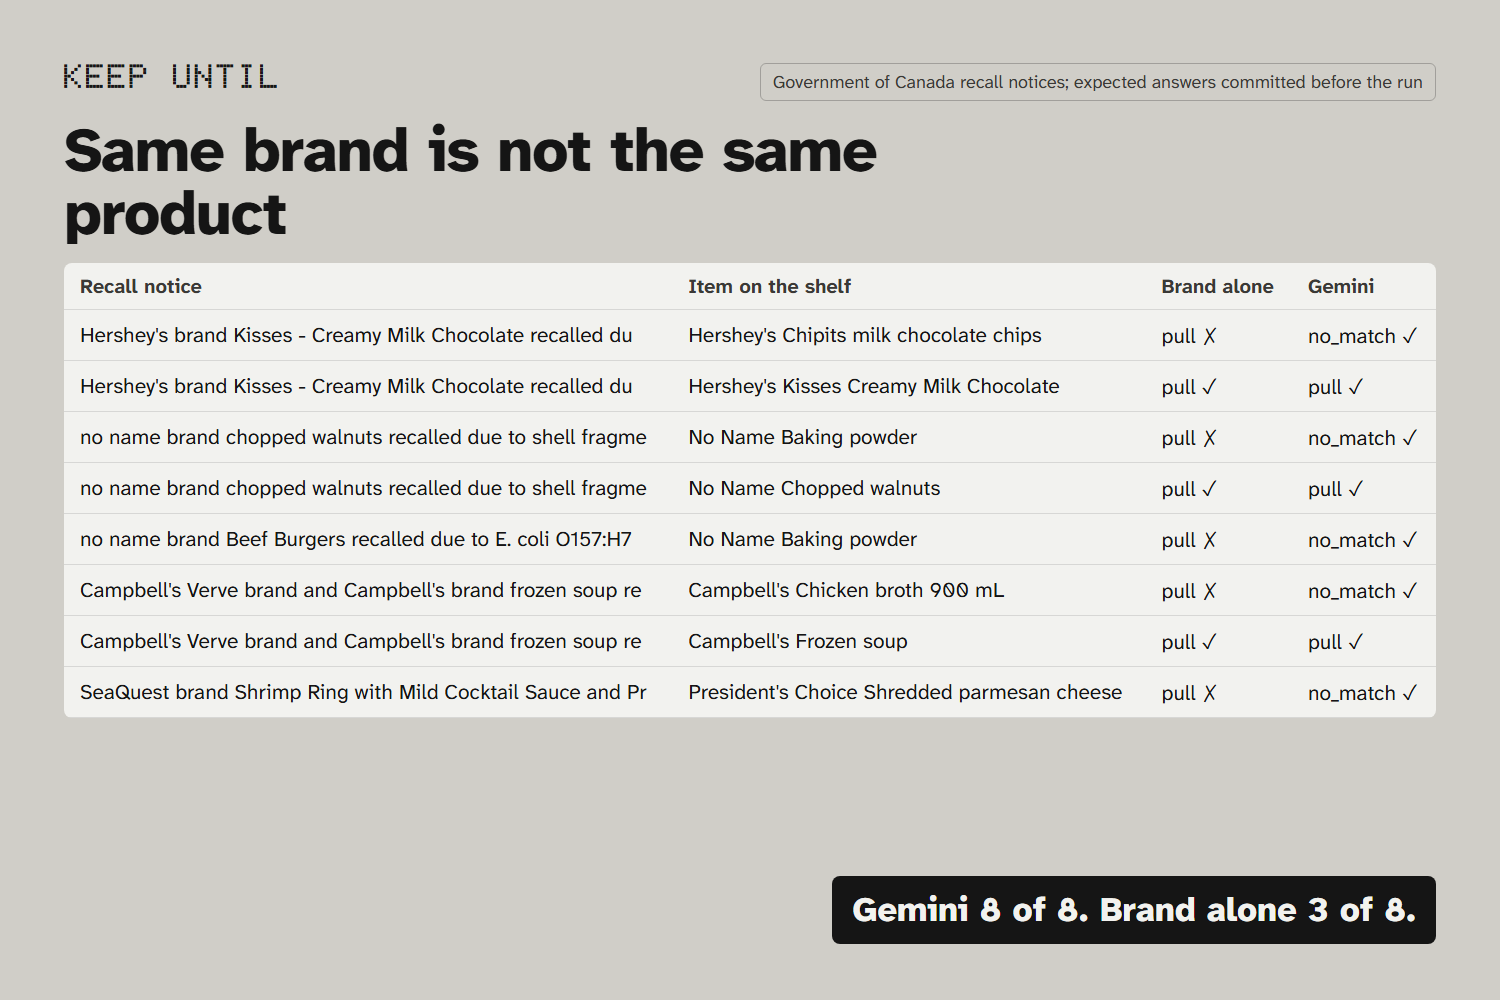
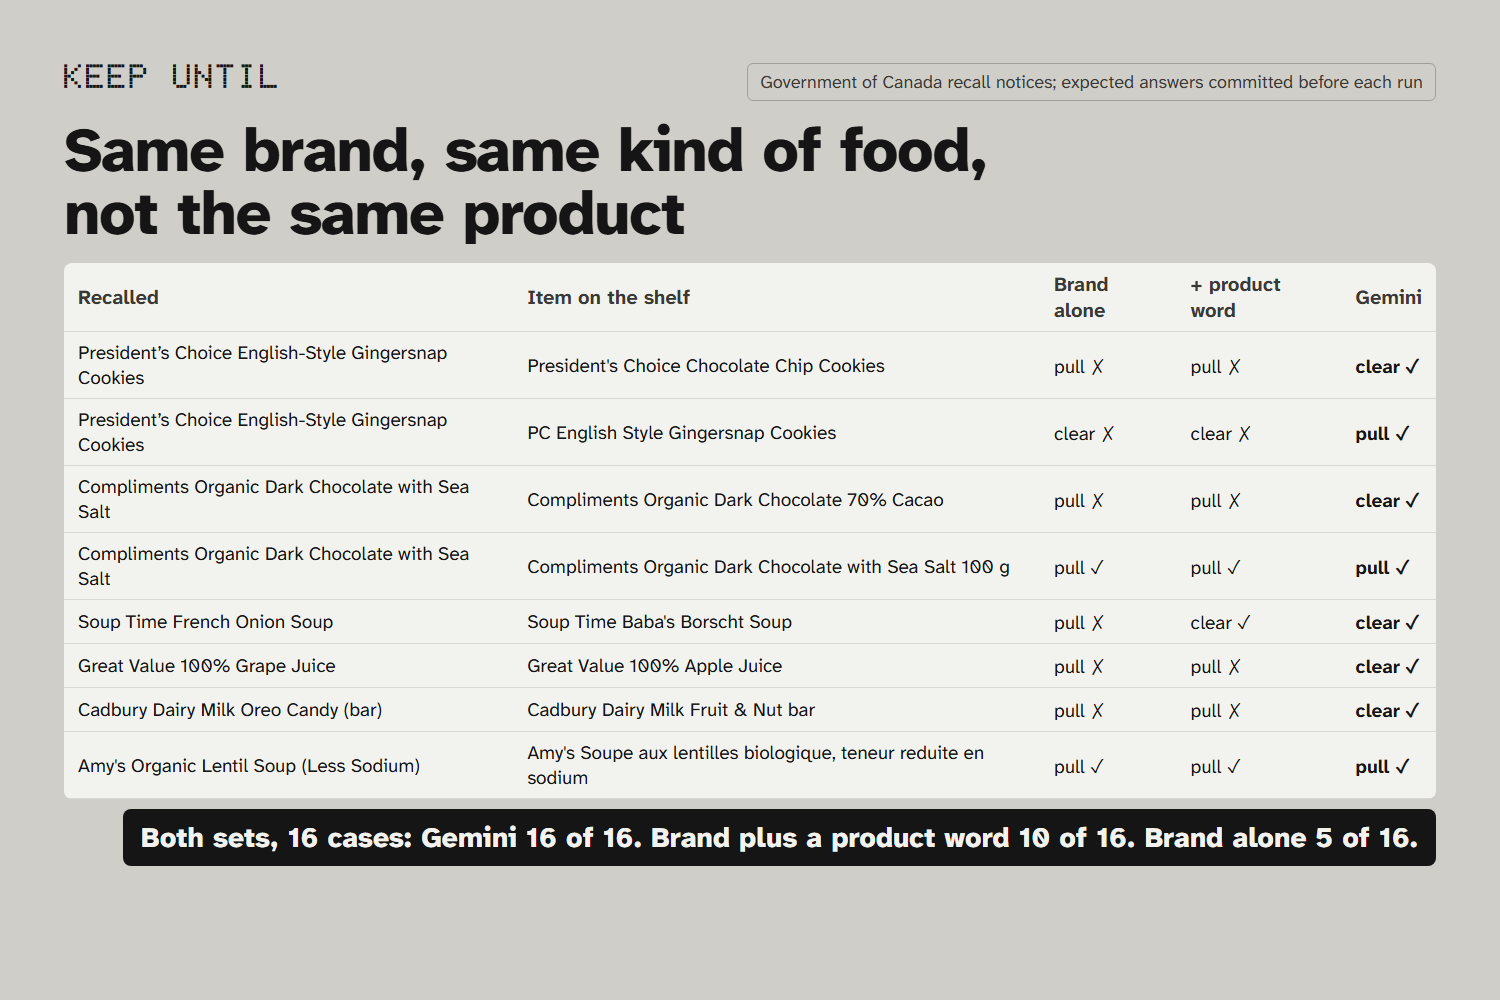
Recall check measured against a fairer rule: on two pre-registered sets (16 real notice and item pairs) Gemini 16 of 16, brand plus a product word 10 of 16, brand alone 5 of 16; the short-brand gap in the daily proposal is stated; recall slide shows the harder set

diff --git a/web/src/main.ts b/web/src/main.ts
@@ -7,7 +7,11 @@ import { logItem, startShift } from "./store";
 import { appendRow, connectSheet, pendingRows, sheetUrl } from "./sheet";
 import { renderAnswer, renderRow, renderTally } from "./view";
 import { checkRecallsAtShiftStart, makeRecallModel, settle, type Found, type Notice } from "./recall";
-import recallControl from "../../shared/recall-control.json";
+import recallControl1 from "../../shared/recall-control.json";
+import recallControl2 from "../../shared/recall-control-2.json";
+
+// Both pre-registered sets, run together: the first (2026-11-19) and the harder second (2026-11-22).
+const recallSets = [recallControl1, recallControl2];
 
 const $ = <T extends HTMLElement>(id: string) => document.getElementById(id) as T;
 const status = $("status");
@@ -263,16 +267,17 @@ recallControlBtn.addEventListener("click", async () => {
   recallControlBtn.disabled = true;
   const model = makeRecallModel(settings.cloudModel);
   const runs: unknown[] = [];
-  for (const [i, c] of recallControl.cases.entries()) {
-    toolStatus.textContent = `Recall control set: case ${i + 1} of ${recallControl.cases.length}`;
+  const cases = recallSets.flatMap((set) => set.cases.map((c) => ({ ...c, registered: set.registered })));
+  for (const [i, c] of cases.entries()) {
+    toolStatus.textContent = `Recall control sets: case ${i + 1} of ${cases.length}`;
     try {
       const s = await settle(model, c.recall as Notice, c.item);
-      runs.push({ id: c.id, expected: c.expected, rule: "pull", model: s.decision, why: s.why, source: s.source, ms: s.ms });
+      runs.push({ id: c.id, registered: c.registered, expected: c.expected, model: s.decision, why: s.why, source: s.source, ms: s.ms });
     } catch (e) {
-      runs.push({ id: c.id, expected: c.expected, rule: "pull", error: (e as Error).message });
+      runs.push({ id: c.id, registered: c.registered, expected: c.expected, error: (e as Error).message });
     }
   }
-  const blob = new Blob([JSON.stringify({ exported: new Date().toISOString(), cloudModel: settings.cloudModel, registered: recallControl.registered, runs }, null, 2)], { type: "application/json" });
+  const blob = new Blob([JSON.stringify({ exported: new Date().toISOString(), cloudModel: settings.cloudModel, sets: recallSets.map((x) => x.registered), runs }, null, 2)], { type: "application/json" });
   const a = document.createElement("a");
   a.href = URL.createObjectURL(blob);
   a.download = "keep-until-recall-control.json";

diff --git a/functions/match.js b/functions/match.js
@@ -49,6 +49,34 @@ export function candidatesFor(recall, items) {
   return out;
 }
 
+const NOT_PRODUCT_WORDS = new Set(["with", "from", "size", "pack", "organic", "style", "brand", "recalled", "certain", "various"]);
+
+/** Product words of four or more letters, singular, without the brand's own words. */
+function productWords(text, brand) {
+  const skip = new Set(norm(brand).trim().split(" "));
+  return new Set(
+    norm(text)
+      .trim()
+      .split(" ")
+      .map((w) => w.replace(/(es|s)$/, ""))
+      .filter((w) => w.length >= 4 && !NOT_PRODUCT_WORDS.has(w) && !skip.has(w)),
+  );
+}
+
+/**
+ * The fairer baseline the model is measured against (2026-11-22): pull only when the brand is in
+ * the notice and the kept item's product shares at least one product word with the recalled
+ * product. It never runs in the product; it exists so the model is compared with a rule a
+ * careful programmer would write, and not only with brand matching.
+ */
+export function keywordRule(recall, item) {
+  if (!candidatesFor(recall, [{ id: "x", brand: item.brand, product: item.product }]).length) return "no_match";
+  const recalled = `${recall.Product ?? ""} ${String(recall.Title ?? "").split(/ recalled /i)[0]}`;
+  const mine = productWords(item.product, item.brand);
+  for (const w of productWords(recalled, item.brand)) if (mine.has(w)) return "pull";
+  return "no_match";
+}
+
 /** Food recalls updated on or after `since` (YYYY-MM-DD), newest first. */
 export function recentFoodRecalls(feed, since) {
   return feed

diff --git a/functions/match.test.js b/functions/match.test.js
@@ -50,3 +50,17 @@ test("keeps only food recalls inside the window, newest first", () => {
   const feed = [kisses, walnuts, { ...kisses, NID: "old", "Last updated": "2024-01-01" }, { ...kisses, NID: "car", Organization: "TC" }];
   assert.deepEqual(recentFoodRecalls(feed, "2025-11-19").map((r) => r.NID), ["real-noname", "real-hershey"]);
 });
+
+// The baseline rule the model is measured against: brand in the notice and a shared product word.
+import { keywordRule } from "./match.js";
+
+test("keyword rule pulls a same-brand item only when a product word is shared", () => {
+  assert.equal(keywordRule(walnuts, { brand: "No Name", product: "Chopped walnuts" }), "pull");
+  assert.equal(keywordRule(walnuts, { brand: "No Name", product: "Baking powder" }), "no_match");
+});
+
+test("keyword rule never matches on the brand's own words or on another brand", () => {
+  const soup = { Title: "Soup Time brand French Onion Soup recalled due to undeclared wheat", Product: "French Onion Soup" };
+  assert.equal(keywordRule(soup, { brand: "Soup Time", product: "Baba's Borscht Soup" }), "no_match");
+  assert.equal(keywordRule(soup, { brand: "Campbell's", product: "French Onion Soup" }), "no_match");
+});

diff --git a/scripts/gallery/render.py b/scripts/gallery/render.py
@@ -30,11 +30,16 @@ def ablation():
     }
 
 
+def w(d):
+    return {"no_match": "clear", "check_lot": "check lot"}.get(d, d)
+
+
 def recall():
-    t = read("results/recall-control-2026-11-19.md")
-    m = re.search(r"Model: (\d+) of (\d+)\. Brand rule alone: (\d+) of (\d+)", t)
-    rows = re.findall(r"^\| c\d \| ([^|]+) \| ([^|]+) \| (\w+) \| pull (.) \| (\w+) (.) \|", t, re.M)
-    return {"model": f"{m[1]} of {m[2]}", "rule": f"{m[3]} of {m[4]}", "false_pulls": int(m[2]) - int(m[3]), "rows": rows}
+    t = read("results/recall-control-2026-11-22.md")
+    m = re.search(r"Model: (\d+ of \d+)\. Brand plus a product word: (\d+ of \d+)\. Brand alone: (\d+ of \d+)", t)
+    second = t[t.index("## Second set"):t.index("## Both sets")]
+    rows = re.findall(r"^\| (d\d) \| ([^|]+) \| ([^|]+) \| (\w+) \| (\w+) (.) \| (\w+) (.) \| (\w+) (.) \|", second, re.M)
+    return {"model": m[1], "keyword": m[2], "rule": m[3], "rows": rows}
 
 
 def quote():
@@ -149,15 +154,15 @@ SLIDES = [
     },
     {
         "name": "recall",
-        "headline": "Same brand is not the same product",
-        "badge": "Government of Canada recall notices; expected answers committed before the run",
-        "body": "<table class=\"small\"><tr><th>Recall notice</th><th>Item on the shelf</th><th>Brand alone</th><th>Gemini</th></tr>"
+        "headline": "Same brand, same kind of food, not the same product",
+        "badge": "Government of Canada recall notices; expected answers committed before each run",
+        "body": "<div class=\"stack\" style=\"width:100%\"><table class=\"tiny\"><tr><th>Recalled</th><th>Item on the shelf</th><th>Brand alone</th><th>+ product word</th><th>Gemini</th></tr>"
         + "".join(
-            f"<tr><td>{html.escape(n.strip()[:58])}</td><td>{html.escape(i.strip())}</td><td>{'pull ' + ok_rule}</td><td>{dec} {ok_m}</td></tr>"
-            for n, i, exp, ok_rule, dec, ok_m in R["rows"]
+            f"<tr><td>{html.escape(n.split(' recalled')[0].replace(' brand', '').strip())}</td><td>{html.escape(i.strip())}</td><td>{w(rb)} {okb}</td><td>{w(rk)} {okk}</td><td><b>{w(dm)} {okm}</b></td></tr>"
+            for _, n, i, exp, rb, okb, rk, okk, dm, okm in R["rows"]
         )
-        + f"</table><p class=\"big\">Gemini {R['model']}. Brand alone {R['rule']}.</p>",
-        "caption": f"Each morning a Firebase function checks food recalls against stock. Gemini clears same-brand items: {R['model']}, brand alone {R['rule']}.",
+        + f"</table><p class=\"bigline\">Both sets, 16 cases: Gemini {R['model']}. Brand plus a product word {R['keyword']}. Brand alone {R['rule']}.</p></div>",
+        "caption": f"Recalls are checked against stock every morning. Gemini {R['model']}; brand plus a product word {R['keyword']}; brand alone {R['rule']}.",
     },
     {
         "name": "phone",
@@ -256,6 +261,8 @@ code {{ font-family: D; font-weight: 800; letter-spacing: .03em; }}
 .axis {{ display: flex; justify-content: space-between; font-size: 18px; color: #3a3936; margin-top: 4px; }}
 .keys {{ font-size: 22px; margin: 14px 0 0; }} .key {{ margin-right: 22px; }} .key i {{ display: inline-block; width: 14px; height: 14px; border-radius: 50%; margin-right: 6px; }}
 .keynote {{ color: #3a3936; }}
+.tiny {{ font-size: 19px; }} table.tiny td, table.tiny th {{ padding: 8px 14px; }}
+.bigline {{ margin: 0; align-self: flex-end; font-size: 28px; font-weight: 800; background: #151515; color: #f2f2ef; padding: 10px 18px; border-radius: 8px; }}
 .term {{ margin: 0; background: #151515; color: #f2f2ef; font-family: D; font-size: 26px; line-height: 1.5; padding: 28px 32px; border-radius: 8px; white-space: pre-wrap; max-width: 820px; }}
 """
 

diff --git a/scripts/check_claims.py b/scripts/check_claims.py
@@ -25,8 +25,8 @@ def ablation():
 
 
 def recall():
-    m = re.search(r"Model: (\d+ of \d+)\. Brand rule alone: (\d+ of \d+)", read("results/recall-control-2026-11-19.md"))
-    return {"model": m[1], "rule": m[2]}
+    m = re.search(r"Model: (\d+ of \d+)\. Brand plus a product word: (\d+ of \d+)\. Brand alone: (\d+ of \d+)", read("results/recall-control-2026-11-22.md"))
+    return {"model": m[1], "keyword": m[2], "rule": m[3]}
 
 
 def handsfree():
@@ -40,6 +40,7 @@ A, R, H = ablation(), recall(), handsfree()
 CLAIMS = [
     (r"Gemini (\d+ of \d+)", R["model"], "recall control, model"),
     (r"[Bb]rand alone:? (\d+ of \d+)", R["rule"], "recall control, brand rule"),
+    (r"product word:? (\d+ of \d+)", R["keyword"], "recall control, brand plus product word rule"),
     (r"(\d+ of \d+) handled right, \d+ cloud calls", A["hybrid"], "hybrid score"),
     (r"\d+ of \d+ handled right, (\d+) cloud calls", A["hybrid_calls"], "hybrid cloud calls"),
     (r"Cloud only \| (\d+ of \d+)", A["cloud"], "cloud-only score"),

diff --git a/results/recall-control-2026-11-22.md b/results/recall-control-2026-11-22.md
@@ -1,0 +1,47 @@
+# Recall control sets, 2026-11-22: the model against two rules
+
+Run: `results/recall-control-2026-11-22.json`, cloud model gemini-3.5-flash-lite, through Firebase AI Logic (PREFER_IN_CLOUD), from the app's recall control runner on localhost.
+Rules: `scripts/recall_baselines.mjs`, using the product's own matcher (`functions/match.js`).
+
+Two rules stand in for the model. **Brand alone** is what the daily function proposes. **Brand plus a product word** pulls only when the brand is in the notice and the kept item shares a product word (four letters or more, singular) with the recalled product: the rule a careful programmer would write without a model.
+
+## First set, registered 2026-11-19
+
+| case | recall notice | kept item | expected | brand alone | brand + product word | Gemini | Gemini's reason |
+|---|---|---|---|---|---|---|---|
+| c1 | Hershey's brand Kisses - Creamy Milk Chocolate recalled due to undeclared almond | Hershey's Chipits milk chocolate chips | no_match | pull ✗ | pull ✗ | no_match ✓ | The notice recalls Kisses - Creamy Milk Chocolate, but the kept item is Chipits milk chocolate chips. |
+| c2 | Hershey's brand Kisses - Creamy Milk Chocolate recalled due to undeclared almond | Hershey's Kisses Creamy Milk Chocolate | recalled | pull ✓ | pull ✓ | pull ✓ | The recall notice explicitly lists the exact brand and product name of the kept item. |
+| c3 | no name brand chopped walnuts recalled due to shell fragments | No Name Baking powder | no_match | pull ✗ | no_match ✓ | no_match ✓ | The recall is for chopped walnuts while the kept item is baking powder. |
+| c4 | no name brand chopped walnuts recalled due to shell fragments | No Name Chopped walnuts | recalled | pull ✓ | pull ✓ | pull ✓ | The recall notice explicitly names the brand and product as recalled due to shell fragments. |
+| c5 | no name brand Beef Burgers recalled due to E. coli O157:H7 | No Name Baking powder | no_match | pull ✗ | no_match ✓ | no_match ✓ | The recall notice is for Beef Burgers while the kept item is Baking powder. |
+| c6 | Campbell's Verve brand and Campbell's brand frozen soup recalled due to pieces of wood | Campbell's Chicken broth 900 mL | no_match | pull ✗ | no_match ✓ | no_match ✓ | The recall notice specifies frozen soup, whereas the kept item is chicken broth. |
+| c7 | Campbell's Verve brand and Campbell's brand frozen soup recalled due to pieces of wood | Campbell's Frozen soup | recalled | pull ✓ | pull ✓ | pull ✓ | The recall notice explicitly names Campbell's brand frozen soup, which matches the kept item. |
+| c8 | SeaQuest brand Shrimp Ring with Mild Cocktail Sauce and President's Choice brand Black Tig | President's Choice Shredded parmesan cheese | no_match | pull ✗ | no_match ✓ | no_match ✓ | The notice recalls shrimp products, but the kept item is shredded parmesan cheese. |
+
+Gemini 8 of 8. Brand plus a product word 7 of 8. Brand alone 3 of 8.
+
+## Second set, registered 2026-11-22 (commit 02cd1d2), harder: same brand and mostly the same kind of food
+
+| case | recall notice | kept item | expected | brand alone | brand + product word | Gemini | Gemini's reason |
+|---|---|---|---|---|---|---|---|
+| d1 | President’s Choice brand English-Style Gingersnap Cookies recalled due to metal wire | President's Choice Chocolate Chip Cookies | no_match | pull ✗ | pull ✗ | no_match ✓ | The recall notice is for English-Style Gingersnap Cookies while the kept item is Chocolate Chip Cookies. |
+| d2 | President’s Choice brand English-Style Gingersnap Cookies recalled due to metal wire | PC English Style Gingersnap Cookies | recalled | no_match ✗ | no_match ✗ | pull ✓ | The recall notice explicitly names the President’s Choice brand English-Style Gingersnap Cookies. |
+| d3 | Compliments Organic brand Dark Chocolate with Sea Salt recalled due to undeclared almond | Compliments Organic Dark Chocolate 70% Cacao | no_match | pull ✗ | pull ✗ | no_match ✓ | The notice recalls Dark Chocolate with Sea Salt while the kept item is Dark Chocolate 70% Cacao. |
+| d4 | Compliments Organic brand Dark Chocolate with Sea Salt recalled due to undeclared almond | Compliments Organic Dark Chocolate with Sea Salt 100 g | recalled | pull ✓ | pull ✓ | pull ✓ | The recall notice states the exact same brand and product as the kept item. |
+| d5 | Soup Time brand French Onion Soup recalled due to undeclared wheat | Soup Time Baba's Borscht Soup | no_match | pull ✗ | no_match ✓ | no_match ✓ | The notice recalls French Onion Soup, but the kept item is Baba's Borscht Soup. |
+| d6 | Great Value brand 100% Grape Juice recalled due to tartrate crystals | Great Value 100% Apple Juice | no_match | pull ✗ | pull ✗ | no_match ✓ | The recall notice is for Grape Juice while the kept item is Apple Juice. |
+| d7 | Cadbury brand Dairy Milk Oreo Candy (bar) recalled due to undeclared pistachio | Cadbury Dairy Milk Fruit & Nut bar | no_match | pull ✗ | pull ✗ | no_match ✓ | The notice recalls the Dairy Milk Oreo Candy bar, while the kept item is a Dairy Milk Fruit & Nut bar. |
+| d8 | Amy's brand Organic Lentil Soup (Less Sodium) recalled due to container integrity defects  | Amy's Soupe aux lentilles biologique, teneur reduite en sodium | recalled | pull ✓ | pull ✓ | pull ✓ | The notice recalls the Amy's brand Organic Lentil Soup (Less Sodium), which matches the kept item. |
+
+Gemini 8 of 8. Brand plus a product word 3 of 8. Brand alone 2 of 8.
+
+## Both sets
+
+**Model: 16 of 16. Brand plus a product word: 10 of 16. Brand alone: 5 of 16.**
+
+## Limits
+
+- d2's brand is printed as "PC". The daily function's brand match needs three letters, so in the product this item is never proposed and the model never sees it. The model settles it here only because the control set hands it the pair. A short or abbreviated brand is a gap in the proposal step, not in the model.
+- The second set was chosen to be the hard part of recall matching (variants of the same product, an abbreviation, a French label), so it favours a reader of meaning over a word rule by design. Its expected answers were committed before either the rules or the model ran on it.
+- 16 cases, all decided from text. A recall limited to certain lot codes (check_lot) is not in either set yet.
+- The first set's model answers here are a second run; they match the 2026-11-19 run case for case (`results/recall-control-2026-11-19.md`).

diff --git a/devpost/submission.md b/devpost/submission.md
@@ -86,7 +86,7 @@ This set mostly tests routing. Nine of the 15 scored photos should get "turn it"
 
 Why a discard needs two reads: in one run the cloud model read the Chipits bag as `26MA14`, a date already past, and the app said discard. The bag says May 2027. In the next run the same photo read `2027 MA 17` (`results/pantry-2026-11-15-cloud-repeatability.md`). Since then a discard needs a second, independent read that finds the same date, and when the two disagree the item goes to the sort lead.
 
-The recall check, on 8 real Government of Canada notices with the expected answers committed before the run: Gemini 8 of 8, brand alone 3 of 8. Brand matching alone would have pulled five items that were never recalled, among them Hershey's Chipits against the August 2026 Hershey's Kisses almond recall.
+The recall check, on 16 pairs of a real Government of Canada recall notice and a same-brand item, in two sets whose expected answers were committed before each run: Gemini 16 of 16, brand plus a product word 10 of 16, brand alone 5 of 16. The second set is the hard part on purpose: Gemini cleared President's Choice chocolate chip cookies against a recall of its gingersnaps, and Great Value apple juice against a recall of its grape juice, and matched Amy's lentil soup read from the French side of the label. One gap is mine, not the model's: the daily function proposes candidates by brand, and a brand printed as "PC" is too short for it, so that item would never reach the model in real use.
 
 A script fails the build if any number on this page or in the README stops matching its results file.
 

diff --git a/README.md b/README.md
@@ -70,7 +70,7 @@ the 16 pantry photos three ways and downloads one file; grade it with
 | Hybrid: Nano checks every photo on the laptop, the cloud reads dates | 13 of 15 handled right, 6 cloud calls for 16 photos | [ablation](results/ablation-inference-mode.md) |
 | Cloud only | 14 of 15, 16 cloud calls | [ablation](results/ablation-inference-mode.md) |
 | Gemini Nano alone on the laptop | 4 of 15 | [ablation](results/ablation-inference-mode.md) |
-| Recall check, 8 real notices, answers registered before the run | Gemini 8 of 8, brand alone 3 of 8 | [recall control](results/recall-control-2026-11-19.md) |
+| Recall check, 16 real notice and item pairs in two sets, answers registered before each run | Gemini 16 of 16, brand plus a product word 10 of 16, brand alone 5 of 16 | [recall control](results/recall-control-2026-11-22.md) |
 | Android gate against the web gate | identical on 294 stamps and 2,580 chart decisions | `shared/gate-vectors.json` |
 | Android on Firebase Test Lab (Pixel 10, Pixel 11, Galaxy S26) | 14 of 15 on the cloud path; on-device unavailable (stub AICore) | [Test Lab](results/android-testlab-2026-11-19.md) |
 | Android 8 and Android 16 emulators, no on-device model | same answers on the sample carton; offline message fixed | [emulators](results/android-emulator-2026-11-20.md) |

diff --git a/devpost/gallery/captions.md b/devpost/gallery/captions.md
@@ -45,7 +45,7 @@ Fridge items, damaged packages and dates two reads disagree on are set aside for
 ## 08-recall.png
 
 ```
-Each morning a Firebase function checks food recalls against stock. Gemini clears same-brand items: 8 of 8, brand alone 3 of 8.
+Recalls are checked against stock every morning. Gemini 16 of 16; brand plus a product word 10 of 16; brand alone 5 of 16.
 ```
 
 ## 09-offline.png
